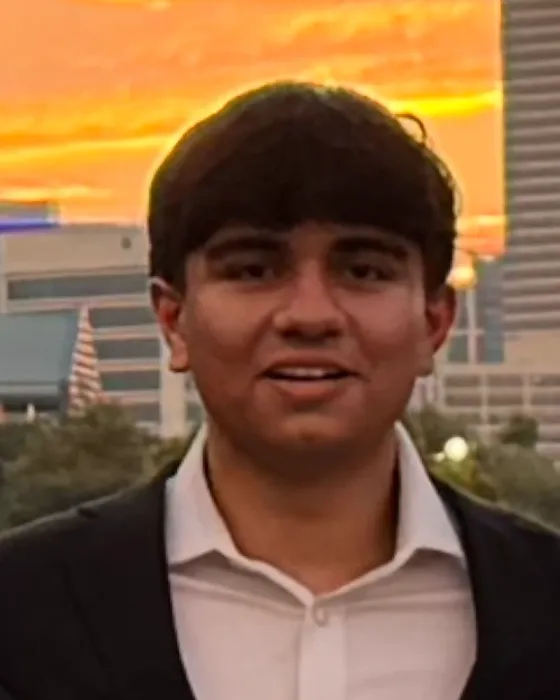
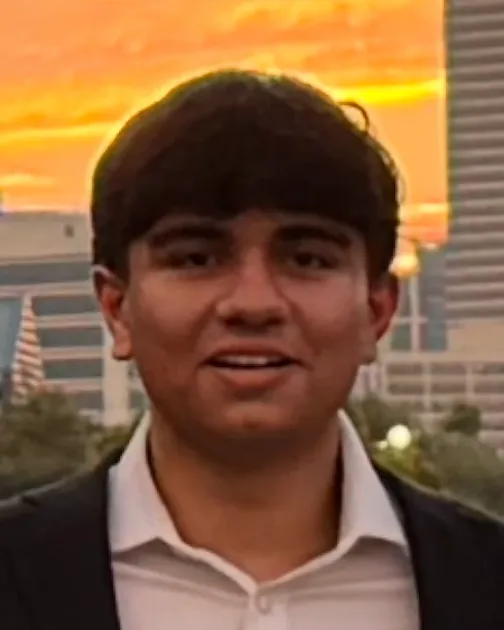
Center the sunset photo, reorder the hero stack, drop the professor's name
- Re-crop the sunset photo so the face sits at the exact center.
- The mic photo now comes second and the sunset photo last.
- Remove the professor's name from the UH research entry and the
  economics case study.

diff --git a/data/v2.ts b/data/v2.ts
@@ -267,7 +267,7 @@ export const projects: Project[] = [
     short: "The CBO's potential-GDP model, in Python",
     tagline: "Rebuilding the CBO's potential-GDP model in Python, so students can run it.",
     summary:
-      "In UH's Department of Economics, under Professor Vollrath, I translated the Congressional Budget Office's potential-GDP model from EViews to Python, built a forecasting framework on top of it, and published it with explanations for undergraduate courses.",
+      "In UH's Department of Economics, I translated the Congressional Budget Office's potential-GDP model from EViews to Python, built a forecasting framework on top of it, and published it with explanations for undergraduate courses.",
     proofs: [
       { value: "Python", label: "the CBO's potential-GDP model, translated from EViews" },
       { value: "Forecasting", label: "a custom framework built on the model" },
@@ -720,7 +720,6 @@ export const caseStudies: Record<ProjectSlug, CaseStudy> = {
     meta: [
       { label: "Role", value: "Quantitative research assistant" },
       { label: "Where", value: "University of Houston, Department of Economics" },
-      { label: "With", value: "Professor Vollrath" },
       { label: "Tools", value: "EViews, Python" },
     ],
     glance: [

diff --git a/data/content.ts b/data/content.ts
@@ -174,8 +174,8 @@ export const hero = {
   photo: { src: "photo-hero.jpg", alt: "Sid Sharma" } as Photo,
   // Stacked behind the main photo, taking turns in front. One whose file is missing is left out.
   morePhotos: [
-    { src: "photo-hero-sunset.jpg", alt: "Sid Sharma in a blazer in front of a city skyline at sunset" },
     { src: "photo-hero-field.jpg", alt: "Sid Sharma smiling and holding a small microphone outdoors" },
+    { src: "photo-hero-sunset.jpg", alt: "Sid Sharma in a blazer in front of a city skyline at sunset" },
   ] as Photo[],
   note: "say hi!",
 };
@@ -388,7 +388,7 @@ export const experience = {
       type: "Department of Economics",
       mark: { logo: "uh.svg", initials: "UH", tone: "tomato" },
       summary:
-        "Under Professor Vollrath, translated the Congressional Budget Office's potential-GDP model from EViews to Python, built a custom forecasting framework, and published the model online with explanations for use in UH undergraduate courses.",
+        "Translated the Congressional Budget Office's potential-GDP model from EViews to Python, built a custom forecasting framework, and published the model online with explanations for use in UH undergraduate courses.",
     },
     {
       id: "remax",
